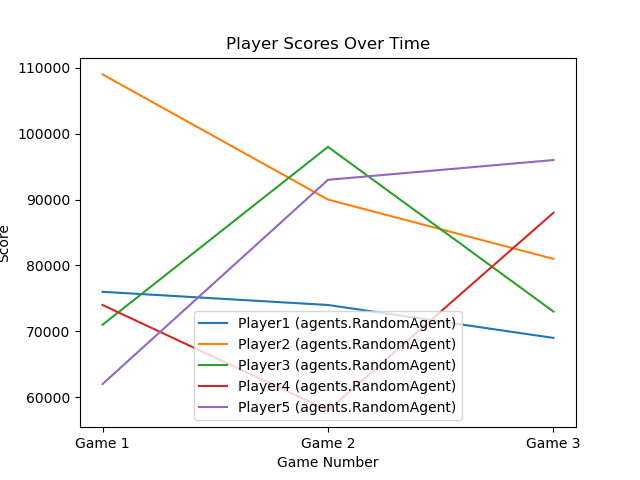
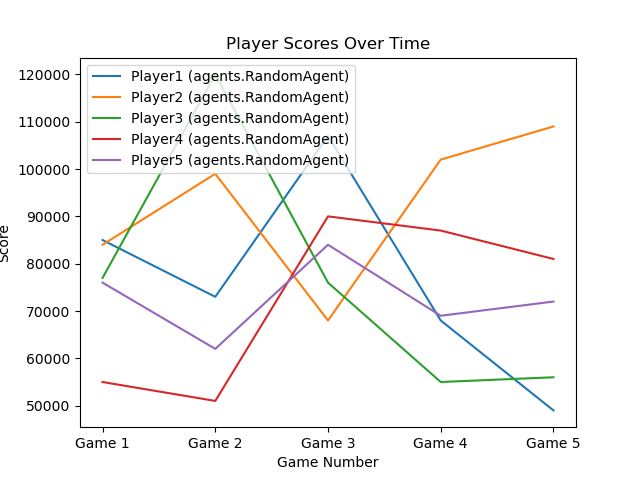
plots

diff --git a/Intrigue/src/Main.java b/Intrigue/src/Main.java
@@ -12,17 +12,32 @@ import static java.lang.Thread.sleep;
 
 public class Main {
     public static void main(String[] args) {
-        String[] agentTypes = {AGENT_TYPES[0], AGENT_TYPES[0], AGENT_TYPES[0], AGENT_TYPES[0], AGENT_TYPES[0]};
-        new GameExporter(agentTypes);
-        for (int numRepetitions = 0; numRepetitions < NUM_REPETITIONS; numRepetitions++) {
-            Profile profile = new ProfileImpl();
-            profile.setParameter(Profile.CONTAINER_NAME, "Intrigue");
-            AgentContainer gameContainer = jade.core.Runtime.instance().createMainContainer(profile);
-            new Game(gameContainer, true, agentTypes);
-            try {
-                sleep(5000);
-            } catch (InterruptedException e) {
-                e.printStackTrace();
+        Integer[] values = {
+                0,0,0,0,0,
+                1,1,1,1,1,
+                2,2,2,2,2,
+                0,0,1,0,0,
+                0,0,2,0,0,
+                1,1,2,1,1,
+                0,1,1,0,0,
+                0,2,2,0,0,
+                1,2,2,1,1,
+                0,1,2,1,0,
+                0,1,2,2,1,
+        };
+        for(int i =0; i < values.length; i = i+5){
+            String[] agentTypes = {AGENT_TYPES[values[i]], AGENT_TYPES[values[i+1]], AGENT_TYPES[values[i+2]], AGENT_TYPES[values[i+3]], AGENT_TYPES[values[i+4]]};
+            new GameExporter(agentTypes);
+            for (int numRepetitions = 0; numRepetitions < NUM_REPETITIONS; numRepetitions++) {
+                Profile profile = new ProfileImpl();
+                profile.setParameter(Profile.CONTAINER_NAME, "Intrigue");
+                AgentContainer gameContainer = jade.core.Runtime.instance().createMainContainer(profile);
+                new Game(gameContainer, true, agentTypes);
+                try {
+                    sleep(5000);
+                } catch (InterruptedException e) {
+                    e.printStackTrace();
+                }
             }
         }
     }

diff --git a/Intrigue/src/behaviours/assign/trust/AssignJobsDecisionTrust.java b/Intrigue/src/behaviours/assign/trust/AssignJobsDecisionTrust.java
@@ -23,8 +23,15 @@ public class AssignJobsDecisionTrust extends AssignJobsDecision {
         ArrayList<Piece> waitingPieces = new ArrayList<>(palace.getParkPieces());
 
         while (!waitingPieces.isEmpty()) {
-            // get best card and assign it to player with more trust
-            Palace.Card bestCard = availableCards.get(0);
+            // get best card and assign it to player with more
+            Palace.Card bestCard;
+
+            if(!availableCards.isEmpty()){
+                bestCard = availableCards.get(0);
+            }else{
+                bestCard = palace.getCards().get(0);
+            }
+
             for (Palace.Card card : availableCards) {
                 if (card.getValue() > bestCard.getValue()) {
                     bestCard = card;

diff --git a/test.py b/test.py
@@ -6,7 +6,7 @@ df = pd.read_csv('results.csv', header=None)
 players = df.iloc[0].tolist()
 num_players = len(players)
 
-num_repetitions = 3
+num_repetitions = 5
 
 for i in range((len(df.index)-1)//(num_repetitions+1)):
     start = i*(num_repetitions+1)

diff --git a/Intrigue/src/game/Game.java b/Intrigue/src/game/Game.java
@@ -182,7 +182,6 @@ public class Game {
 
 
     public void display() {
-        return;
         /*
         StringBuilder board = new StringBuilder();
 
